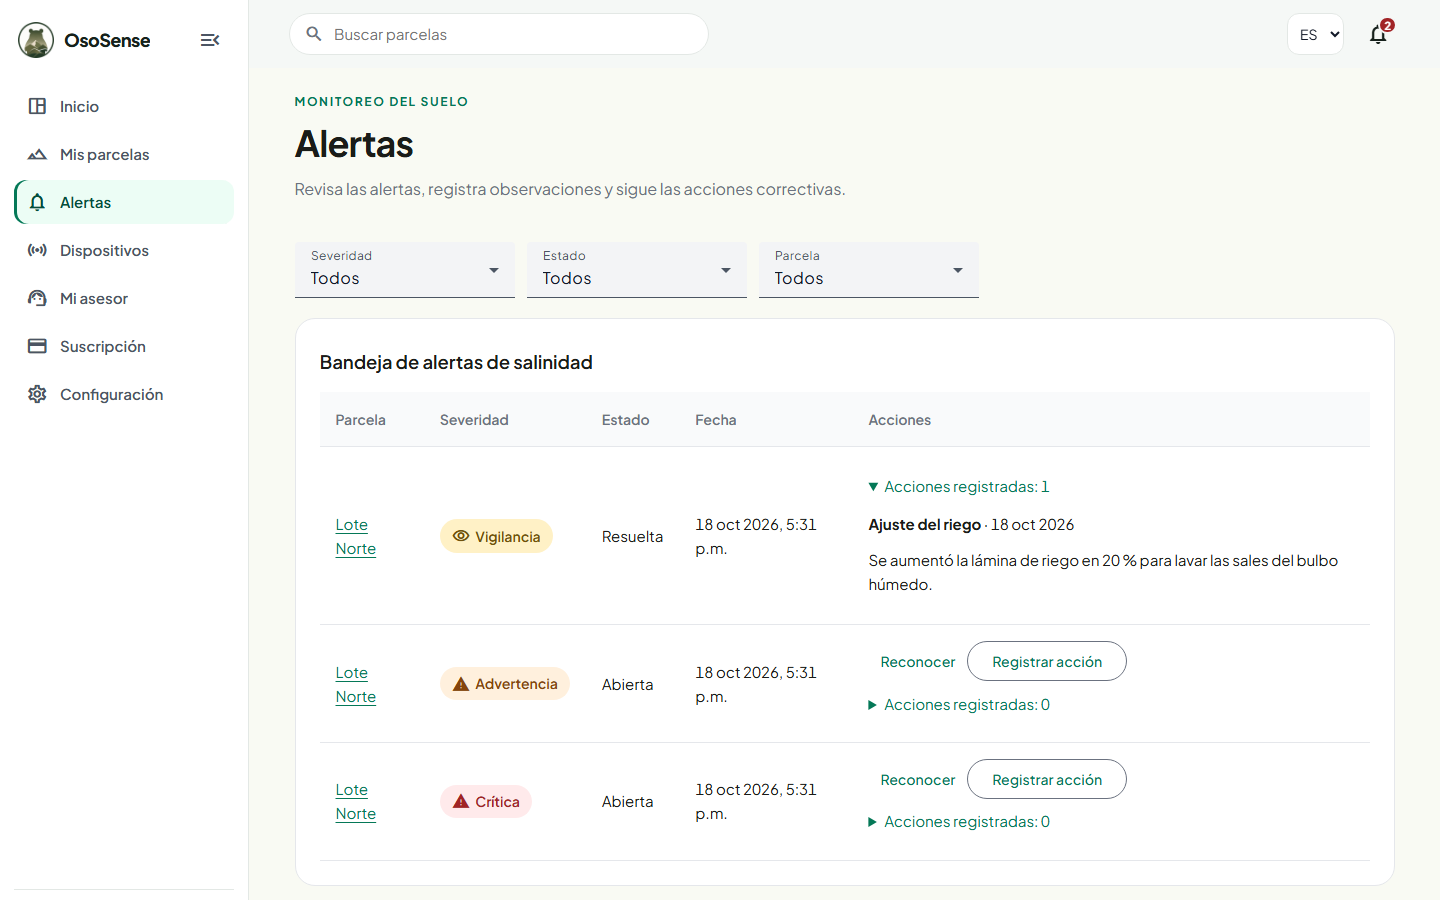
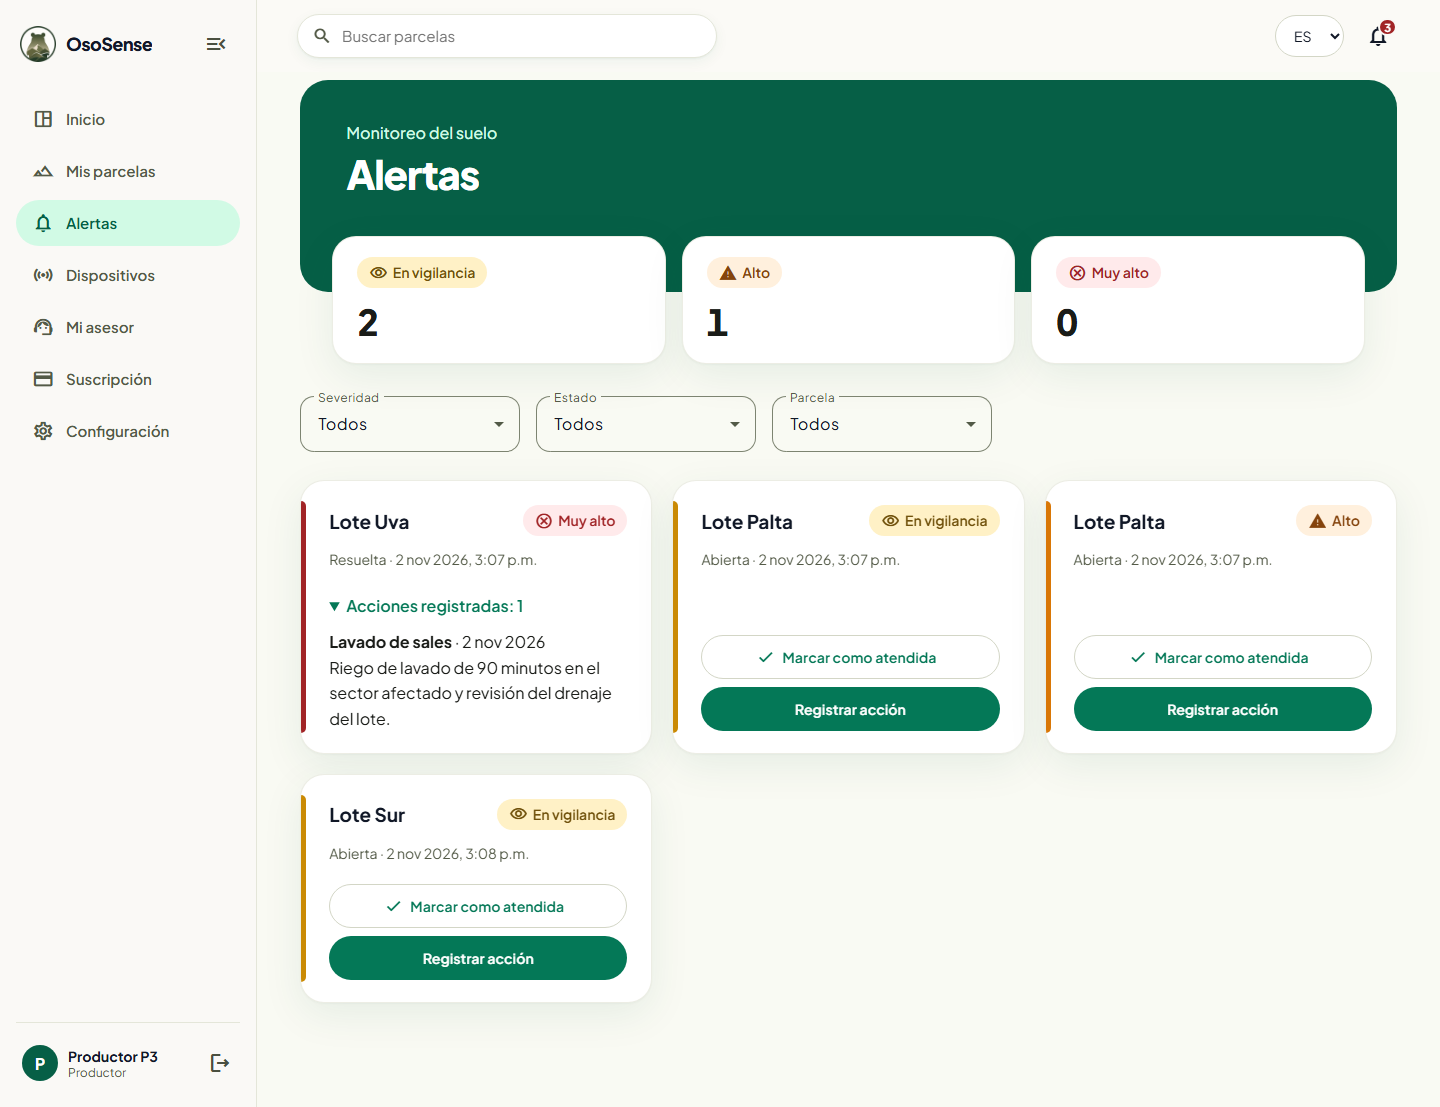
docs(chapter-6): retake sprint 2 app captures on the redesigned ui

diff --git a/chapters/chapter6.md b/chapters/chapter6.md
@@ -956,9 +956,11 @@ Commits relacionados con pruebas en el Sprint 2:
 
 Al cierre de esta revisión el productor y el asesor trabajan con datos del RESTful API. Las capturas de la Web App muestran un recorrido completo con el backend en ejecución local y cuentas de prueba: el productor registra su finca y sus parcelas, vincula el sensor con el código de activación, el Edge Service envía las lecturas, aparece la alerta y el productor registra la acción correctiva. La Mobile App se probó con el mismo flujo en el emulador Android (Pixel 7).
 
+El recorrido se volvió a tomar el 2 de noviembre de 2026 sobre la rama `develop` de los dos productos, de modo que las figuras muestran la versión que está desplegada: ya incluye las correcciones de la evaluación heurística de la sección 6.3.3 (una sola escala de severidad —En vigilancia, Alto y Muy alto—, «Marcar como atendida» en los dos productos, apertura en español y formulario de parcela sin cultivo preseleccionado) y el rediseño del inicio, que encabeza la pantalla con cuántas parcelas necesitan atención y la tendencia de la parcela más crítica. En el escenario de las capturas, el productor tiene tres parcelas: Lote Uva en Muy alto, Lote Palta en Alto y Lote Sur, la parcela a la que se vincula el sensor, que queda En vigilancia con su primera lectura.
+
 <div align="center">
 <img src="../assets/sprint-2/webapp-02-mis-parcelas.png" alt="Fincas y parcelas del productor en la Web App" width="800">
-<p><em>Figura 6.24. Fincas y parcelas del productor registradas en el RESTful API.</em></p>
+<p><em>Figura 6.24. Fincas y parcelas del productor registradas en el RESTful API: Lote Sur todavía sin lectura, porque aún no tiene sensor.</em></p>
 </div>
 
 <div align="center">
@@ -973,7 +975,7 @@ Al cierre de esta revisión el productor y el asesor trabajan con datos del REST
 
 <div align="center">
 <img src="../assets/sprint-2/webapp-05-inicio-con-alerta.png" alt="Inicio del productor con una parcela sobre el umbral" width="800">
-<p><em>Figura 6.27. Inicio del productor después de la sincronización del Edge: Lote Norte al 160 % del umbral de la uva.</em></p>
+<p><em>Figura 6.27. Inicio del productor después de la sincronización del Edge: 2 de sus 3 parcelas necesitan atención y Lote Uva está al 173 % del umbral de la uva.</em></p>
 </div>
 
 <div align="center">
@@ -982,8 +984,8 @@ Al cierre de esta revisión el productor y el asesor trabajan con datos del REST
 </div>
 
 <div align="center">
-<img src="../assets/sprint-2/webapp-08-alertas.png" alt="Bandeja de alertas con severidad vigilancia, advertencia y crítica" width="800">
-<p><em>Figura 6.29. Alertas generadas por el umbral del cultivo (US31).</em></p>
+<img src="../assets/sprint-2/webapp-08-alertas.png" alt="Bandeja de alertas con los niveles En vigilancia, Alto y Muy alto" width="800">
+<p><em>Figura 6.29. Alertas generadas por el umbral del cultivo, en los tres niveles de severidad (US31).</em></p>
 </div>
 
 <div align="center">
@@ -993,7 +995,7 @@ Al cierre de esta revisión el productor y el asesor trabajan con datos del REST
 
 <div align="center">
 <img src="../assets/sprint-2/webapp-10-alerta-resuelta.png" alt="Alerta resuelta con su acción registrada" width="800">
-<p><em>Figura 6.31. Alerta resuelta con la acción registrada en el mismo día calendario.</em></p>
+<p><em>Figura 6.31. Alerta resuelta con la acción registrada —lavado de sales— en el mismo día calendario.</em></p>
 </div>
 
 <div align="center">
@@ -1237,7 +1239,7 @@ Las observaciones de cada sesión se registran en la sección 6.3.2 y los proble
 
 ### 6.3.3. Evaluaciones según heurísticas
 
-El enunciado pide evaluar las sesiones de validación con heurísticas de usabilidad, arquitectura de información y diseño inclusivo. Como el equipo no cuenta con otro grupo que lo audite y las entrevistas de la sección 6.3.2 aún no se realizan, esta evaluación es una inspección interna del propio equipo, sin participantes externos: el equipo recorrió los productos con las tareas P-T1 a P-T5 y A-T1 a A-T6 de la sección 6.3.1 el 24 de octubre de 2026, en el Landing Page publicado (<https://osoterra-iot.github.io/OsoTerra---Landing-Page/>) y en la Web App de `develop` ejecutada en local contra el RESTful API de `develop` con PostgreSQL y datos de prueba de la release 0.3.0 del informe. La Mobile App se revisó con las capturas reales del Sprint 2 (Figuras 6.34 y 6.35), porque en esta inspección no se ejecutó en un emulador. El contraste se midió con los estilos calculados del navegador (fórmula de WCAG 2.1) y los tamaños con las dimensiones reales de cada elemento.
+El enunciado pide evaluar las sesiones de validación con heurísticas de usabilidad, arquitectura de información y diseño inclusivo. Como el equipo no cuenta con otro grupo que lo audite y las entrevistas de la sección 6.3.2 aún no se realizan, esta evaluación es una inspección interna del propio equipo, sin participantes externos: el equipo recorrió los productos con las tareas P-T1 a P-T5 y A-T1 a A-T6 de la sección 6.3.1 el 24 de octubre de 2026, en el Landing Page publicado (<https://osoterra-iot.github.io/OsoTerra---Landing-Page/>) y en la Web App de `develop` ejecutada en local contra el RESTful API de `develop` con PostgreSQL y datos de prueba de la release 0.3.0 del informe. La Mobile App se revisó con las capturas que tenía ese día, porque en esta inspección no se ejecutó en un emulador; las figuras de esta sección las conservan, mientras que las Figuras 6.34 y 6.35 de la sección 6.2.2.6 ya muestran la versión corregida. El contraste se midió con los estilos calculados del navegador (fórmula de WCAG 2.1) y los tamaños con las dimensiones reales de cada elemento.
 
 **UX Heuristics & Principles Evaluation**
 
@@ -1460,6 +1462,6 @@ En el detalle de parcela de la Mobile App (tareas P-T5 y A-T6), «Conductividad 
 
 Agregar valores en dS/m en el eje vertical y fechas en el horizontal, marcar el valor del último punto y ofrecer, como en la Web App, una lista de lecturas que el lector de pantalla pueda leer.
 
-**Resultado de la evaluación.** Se encontraron nueve problemas: cinco de severidad 3 y cuatro de severidad 2; ninguno impide terminar las tareas. Los de severidad 3 se corrigen en el siguiente sprint, antes de las entrevistas con participantes de los segmentos: unificar la regla de atención y la escala de severidad entre productos, quitar los textos de demostración de la versión conectada al RESTful API, abrir en español y corregir el formulario de parcela. Los hallazgos de las entrevistas de la sección 6.3.2 se agregarán a esta tabla cuando se realicen.
+**Resultado de la evaluación.** Se encontraron nueve problemas: cinco de severidad 3 y cuatro de severidad 2; ninguno impide terminar las tareas. Los cinco de severidad 3 ya se corrigieron dentro del mismo Sprint 2, antes de las entrevistas con participantes de los segmentos: se unificaron la regla de atención y la escala de severidad entre productos (En vigilancia, Alto y Muy alto, con «Marcar como atendida» en los dos), se quitaron los textos de demostración de la versión conectada al RESTful API, los dos productos abren en español y el formulario de parcela ya no trae un cultivo preseleccionado. Las figuras de la sección 6.2.2.6, tomadas el 2 de noviembre de 2026, muestran los productos con esas correcciones aplicadas; las figuras de esta sección conservan el estado en el que se detectó cada problema. Los hallazgos de las entrevistas de la sección 6.3.2 se agregarán a esta tabla cuando se realicen.
 
 ## 6.4. Video About-the-Product

diff --git a/versions.md b/versions.md
@@ -135,6 +135,7 @@
 | 0.0.129 | 24/10/2026 | Andreow Jomark Santiago Peña | Capítulo VI: sección 6.3.3 con la evaluación heurística del equipo en el formato del Anexo D (nueve problemas de usabilidad, arquitectura de información y diseño inclusivo en el Landing Page, la Web App y la Mobile App). |
 | 0.0.130 | 25/10/2026 | Andreow Jomark Santiago Peña | Capítulo V: umbrales de los niveles de salinidad alineados con el RESTful API, la Web App y la Mobile App (1,0, 1,2 y 1,5 veces el umbral del cultivo) en la sección 5.1 y en el sistema de etiquetas, y valores de la figura de estados en contexto actualizados. |
 | 0.0.131 | 25/10/2026 | Andreow Jomark Santiago Peña | Capítulo VI: sección 6.2.2.3 con la captura del tablero de Trello al cierre del Sprint 2 (Figura 6.23), con las Technical Stories renombradas a TS01–TS10; figuras siguientes renumeradas. |
+| 0.0.132 | 02/11/2026 | Andreow Jomark Santiago Peña | Capítulo VI: sección 6.2.2.6 con el recorrido de la Web App y de la Mobile App vuelto a tomar sobre `develop` (Figuras 6.24 a 6.35), ya con las correcciones de la evaluación heurística y el rediseño del inicio; pies de figura y resultado de la sección 6.3.3 actualizados. |
 
 <div style="page-break-before: always; break-before: page;"></div>
 
